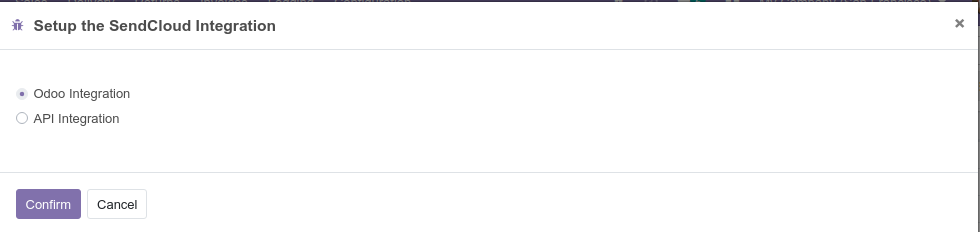
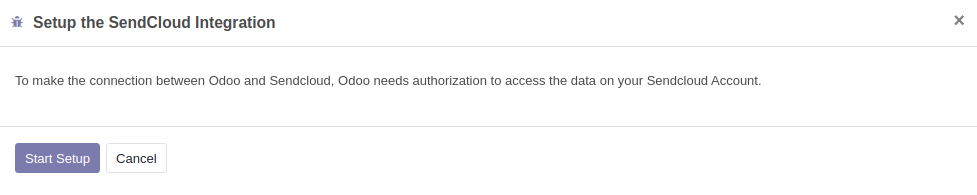
Update readme

diff --git a/delivery_sendcloud_official/static/description/index.html b/delivery_sendcloud_official/static/description/index.html
@@ -563,11 +563,6 @@ div.compound .compound-last, div.compound .compound-middle {
                 >
               </li>
               <li>
-                <a class="reference internal" href="#api-integration" id="id4"
-                  >API Integration</a
-                >
-              </li>
-              <li>
                 <a
                   class="reference internal"
                   href="#sendcloud-panel-settings"
@@ -717,7 +712,7 @@ div.compound .compound-last, div.compound .compound-middle {
           </p>
           <img class="align-left" alt="Image_10.png" src="Image_10.png" />
           <p>
-            Select Odoo Integration. Confirm. You will be redirected to a
+            Select Odoo Integration. Start Setup. You will be redirected to a
             SendCloud page asking you to authorize OdooShop to access your
             Sendcloud account. Click on Connect in the SendCloud page.
           </p>
@@ -746,36 +741,6 @@ div.compound .compound-last, div.compound .compound-middle {
             pick-up assignment is send to the carrier.
           </p>
           <img class="align-left" alt="Image_50.png" src="Image_50.png" />
-        </div>
-              <div>
-          <br></br>
-          <hr></hr>
-          <br></br>
-        </div>
-        <div class="section" id="api-integration">
-          <h2><a class="toc-backref" href="#id4">API Integration</a></h2>
-          <p>
-            Go to SendCloud &gt; Configuration &gt; Wizards &gt; Setup the
-            SendCloud Integration. Click on Setup Integration. A wizard will pop
-            up.
-          </p>
-          <p>Select API Integration.</p>
-          <img class="align-left" alt="Image_60.png" src="Image_60.png" />
-          <p>
-            Enter the public and secret keys provided by SendCloud. Here is how
-            to create api key in SendCloud:
-            <a
-              class="reference external"
-              href="https://github.com/SendCloud/api-integration-example"
-              >https://github.com/SendCloud/api-integration-example</a
-            >
-          </p>
-          <p>
-            Confirm. An API integration is now present in the Integration list
-            view. Open the API Integration form. Edit the API Integration. The
-            changes you make will be in sync, SendCloud side, with the
-            integration configuration.
-          </p>
         </div>
         <div>
           <br></br>
@@ -1092,11 +1057,7 @@ div.compound .compound-last, div.compound .compound-middle {
       <div class="section" id="todo">
         <h1><a class="toc-backref" href="#id17">TODO</a></h1>
         <ul class="simple">
-          <li>Enable different Shipping Methods for different Websites?</li>
-          <li>Are there shipping methods without weight limit?</li>
-          <li>
-            are there delivery carriers with different from-country records?
-          </li>
+          <li>Enable different Shipping Methods for different Websites</li>
         </ul>
       </div>
             <div>

diff --git a/delivery_sendcloud_official/README.rst b/delivery_sendcloud_official/README.rst
@@ -59,7 +59,7 @@ Go to SendCloud > Configuration > Wizards > Setup the SendCloud Integration. A w
 
 .. image:: /delivery_sendcloud_official/static/description/Image_10.png
 
-Select Odoo Integration. Confirm. You will be redirected to a SendCloud page asking you
+Select Odoo Integration. Start Setup. You will be redirected to a SendCloud page asking you
 to authorize OdooShop to access your Sendcloud account. Click on Connect in the SendCloud page.
 
 .. image:: /delivery_sendcloud_official/static/description/Image_20.png
@@ -81,27 +81,6 @@ Sendcloud as soon as you validate the salesorder. The “incoming order” has s
 When you validate the delivery in Odoo the label is created and the pick-up assignment is send to the carrier.
 
 .. image:: /delivery_sendcloud_official/static/description/Image_50.png
-
-
-API Integration
-~~~~~~~~~~~~~~~
-
-Go to SendCloud > Configuration > Wizards > Setup the SendCloud Integration. Click on Setup Integration. A wizard will pop up.
-
-Select API Integration.
-
-.. image:: /delivery_sendcloud_official/static/description/Image_60.png
-
-Enter the public and secret keys provided by SendCloud.
-Here is how to create api key in SendCloud:
-https://github.com/SendCloud/api-integration-example
-
-Confirm. An API integration is now present in the Integration list view.
-Open the API Integration form.
-Edit the API Integration. The changes you make will be in sync, SendCloud side, with the integration configuration.
-
-Please note that when using the Api integration a label is created in Sendcloud as soon as you validate the delivery. There is no "incoming order"
-created in the Sendcloud portal but directly a label.
 
 
 SendCloud panel settings
@@ -267,9 +246,7 @@ Known issues / Roadmap
 TODO
 ====
 
-- Enable different Shipping Methods for different Websites?
-- Are there shipping methods without weight limit?
-- are there delivery carriers with different from-country records?
+- Enable different Shipping Methods for different Websites
 
 Bug Tracker
 ===========

diff --git a/delivery_sendcloud_official/readme/CONFIGURE.rst b/delivery_sendcloud_official/readme/CONFIGURE.rst
@@ -13,7 +13,7 @@ Go to SendCloud > Configuration > Wizards > Setup the SendCloud Integration. A w
 
 .. image:: /delivery_sendcloud_official/static/description/Image_10.png
 
-Select Odoo integration. Confirm. You will be redirected to a SendCloud page asking you
+Select Odoo integration. Start Setup. You will be redirected to a SendCloud page asking you
 to authorize OdooShop to access your Sendcloud account. Click on Connect in the SendCloud page.
 
 .. image:: /delivery_sendcloud_official/static/description/Image_20.png
@@ -35,24 +35,6 @@ Sendcloud as soon as you validate the salesorder. The “incoming order” has s
 When you validate the delivery in Odoo the label is created and the pick-up assignment is send to the carrier.
 
 .. image:: /delivery_sendcloud_official/static/description/Image_50.png
-
-
-API Integration
-~~~~~~~~~~~~~~~
-
-Go to SendCloud > Configuration > Wizards > Setup the SendCloud Integration. Click on Setup Integration. A wizard will pop up.
-
-Select API Integration.
-
-.. image:: /delivery_sendcloud_official/static/description/Image_60.png
-
-Enter the public and secret keys provided by SendCloud.
-Here is how to create api key in SendCloud:
-https://github.com/SendCloud/api-integration-example
-
-Confirm. An API integration is now present in the Integration list view.
-Open the API Integration form.
-Edit the API Integration. The changes you make will be in sync, SendCloud side, with the integration configuration.
 
 
 SendCloud panel settings

diff --git a/delivery_sendcloud_official/readme/ROADMAP.rst b/delivery_sendcloud_official/readme/ROADMAP.rst
@@ -1,6 +1,4 @@
 TODO
 ====
 
-- Enable different Shipping Methods for different Websites?
-- Are there shipping methods without weight limit?
-- are there delivery carriers with different from-country records?
+- Enable different Shipping Methods for different Websites
